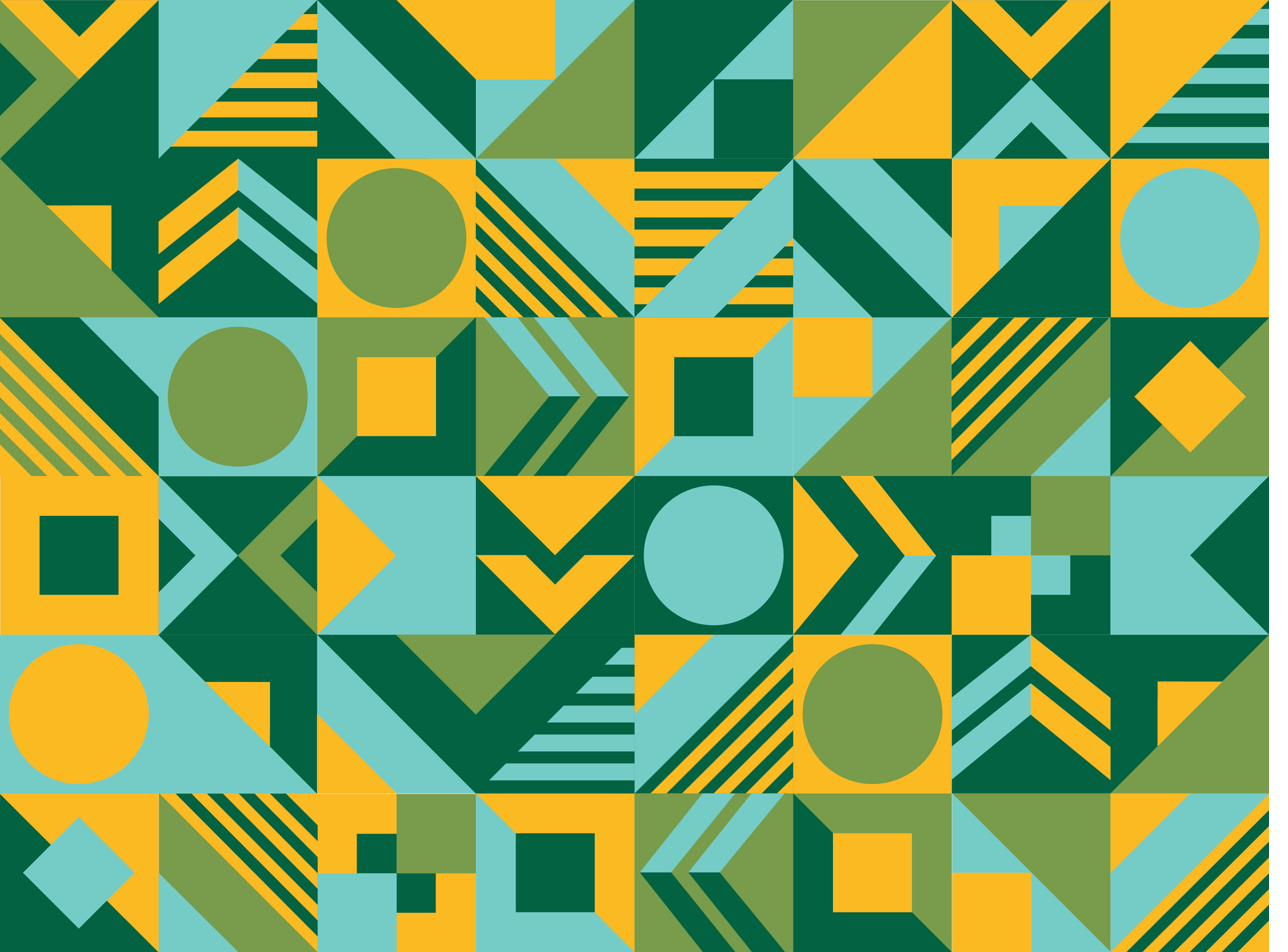
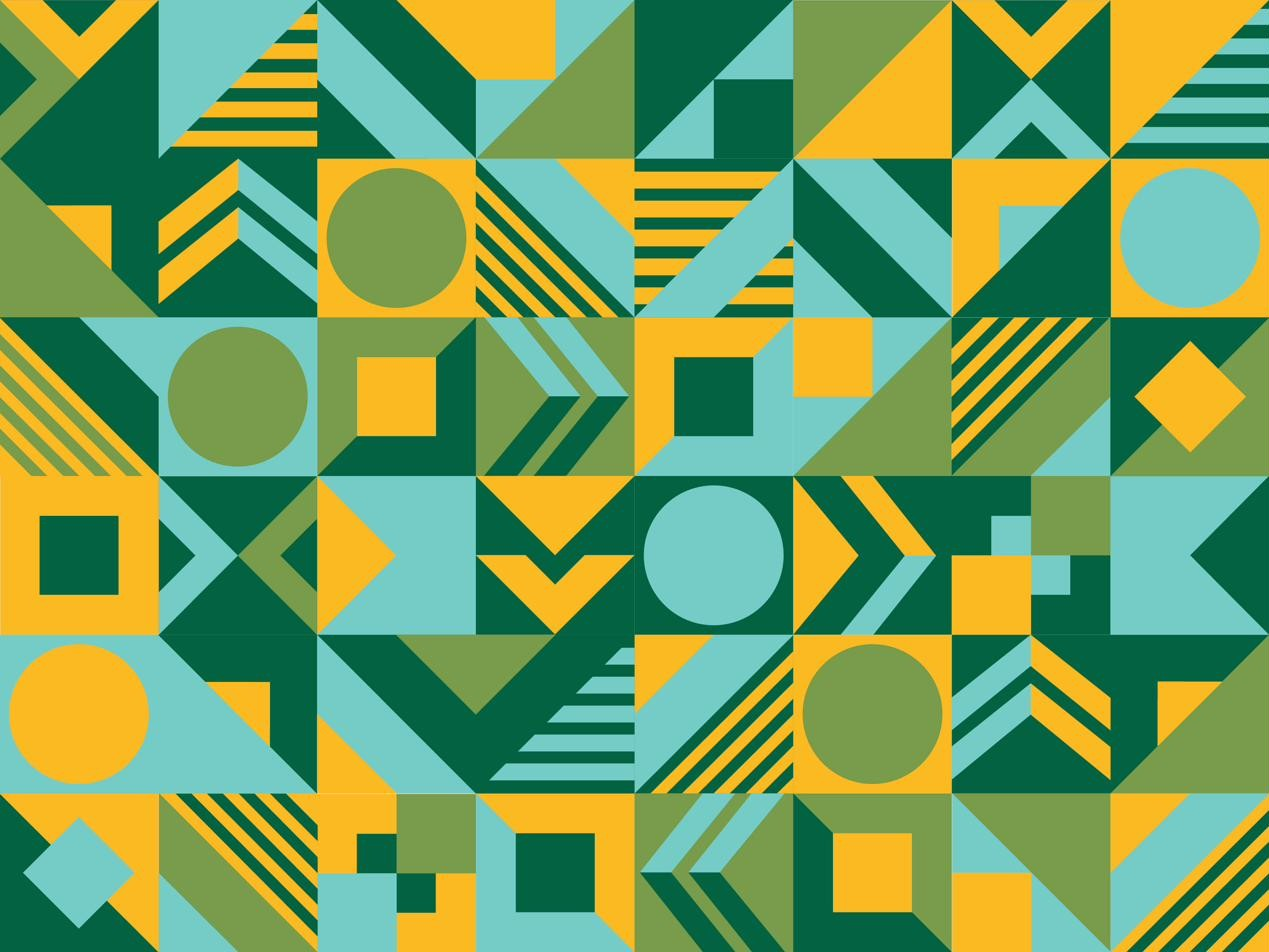
Fix white lines in the pattern bands (header + footer)
Two causes, both at the repeat seam of .patband, which is the only place the
pattern tiles (repeat-x) -- hence the header and footer specifically. The panel
treatments use no-repeat/cover and were never affected.

1. The asset shipped 1288x952 with a ~19px near-white margin down its right
   edge (a stray export margin; the other three edges are clean). repeat-x
   stamped that margin into a light line at every tile boundary. Cropped to
   1269x952, which is the real content: an 8x6 grid of square ~158.67px tiles,
   aspect 1.33298 vs the ideal 8:6 = 1.33333. Re-encoded at q90; the original's
   own JPEG artifacts dominate, so PSNR is ~39dB at any quality (136KB -> 150KB).

2. background-size was `auto 54px`. Even with a correct aspect that resolves to
   71.98px, so every seam landed on a sub-pixel boundary and rounded into a
   hairline -- worst under the print zoom (96/8.38 = 11.46x), where a 0.45px
   sliver smears to ~5 device px. Pinned to 72px 54px (8 cols x 9px, 6 rows x
   9px) so seams fall on whole pixels.

Verified by simulating the print zoom on a canvas and taking a per-column
brightness profile across a repeat: before = 24 columns at 254-255 against a
pattern mean of 119; after = 0 bright columns, seam neighbours at 116-120 on a
mean of 117.

diff --git a/editor/index.html b/editor/index.html
@@ -147,11 +147,16 @@
   .toprow{display:flex;}
   .toprow .tt{width:9px;height:9px;flex:0 0 auto;overflow:hidden;}
   .toprow .tt svg{display:block;width:100%;height:100%;}
-  /* real brand pattern band (crops of brand/Foundry_Pattern.jpg, 8x6 grid of square tiles).
-     Scaled so one tile row = the 9px band height; --prow (0..5) picks which row shows. */
+  /* Real brand pattern band: brand/Foundry_Pattern.jpg, an 8x6 grid of square ~158.67px
+     tiles = 1269x952. The file used to ship 1288px wide, with a 19px near-white export
+     margin down its right edge; repeat-x tiled that margin into a white line every ~73px,
+     which is what showed up in this band and in the footer. The margin is now cropped off.
+     Size is pinned to 72x54 (8 cols x 9px, 6 rows x 9px) rather than `auto 54px`, which
+     resolves to 71.98px — that fraction put every seam on a sub-pixel boundary and rounded
+     into a hairline, worst under the print zoom (11.46x). --prow (0..5) picks a row. */
   .patband{height:9px;width:100%;overflow:hidden;background:var(--forest);
     background-image:url('../brand/Foundry_Pattern.jpg');
-    background-size:auto 54px; background-repeat:repeat-x;
+    background-size:72px 54px; background-repeat:repeat-x;
     background-position-x:0; background-position-y:calc(var(--prow,0) * -9px);}
   .hdrgreen{background:var(--green);border-radius:6px;overflow:hidden;position:relative;}
   .hdrgreen .band{padding:9px 10px 10px;text-align:center;position:relative;}